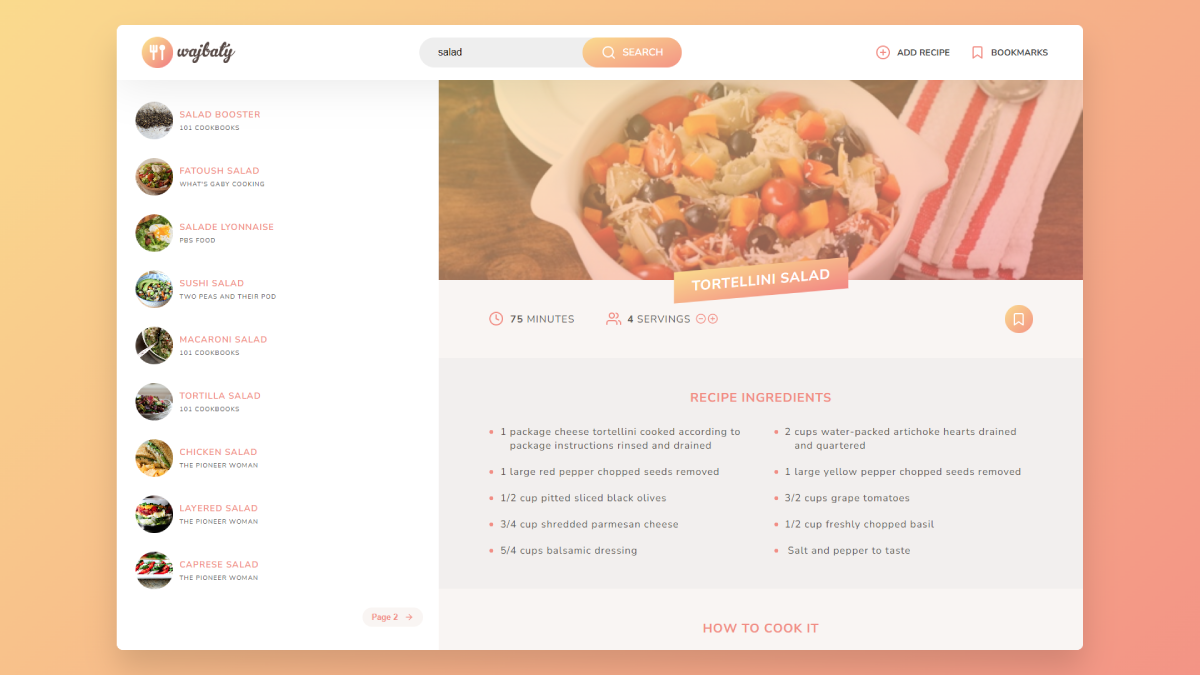
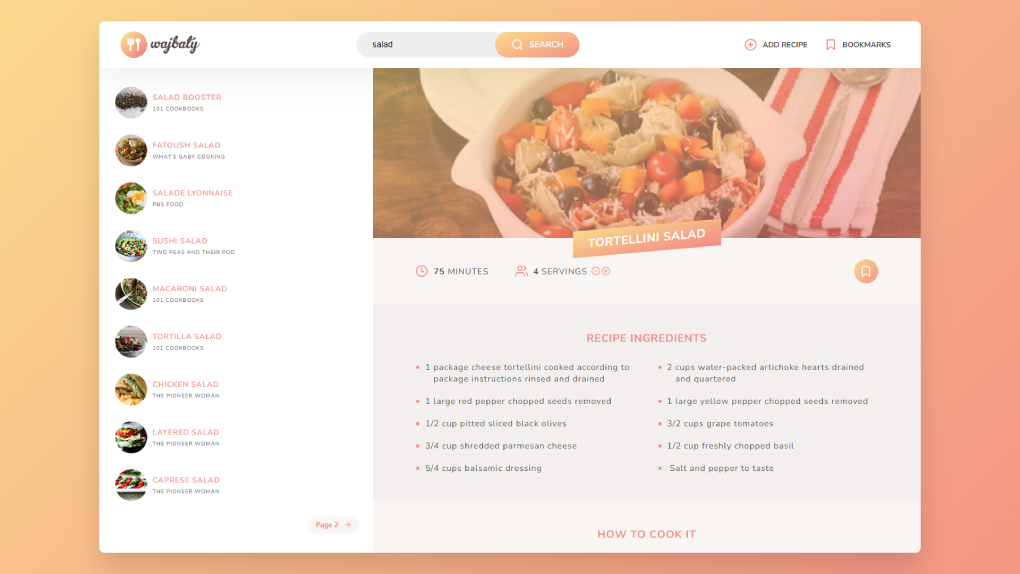
Resize big version images

diff --git a/src/pages/project-detail/ProjectDetailPicture.jsx b/src/pages/project-detail/ProjectDetailPicture.jsx
@@ -14,7 +14,7 @@ function ProjectPicture({ project }) {
 				srcSet={`
                     ${project.src}-small.webp 510w,
                     ${project.src}-medium.webp 760w,
-                    ${project.src}-big.webp 1200w
+                    ${project.src}-big.webp 1020w
                 `}
 				alt={`${project.name} app screenshot`}
 				loading="lazy"
